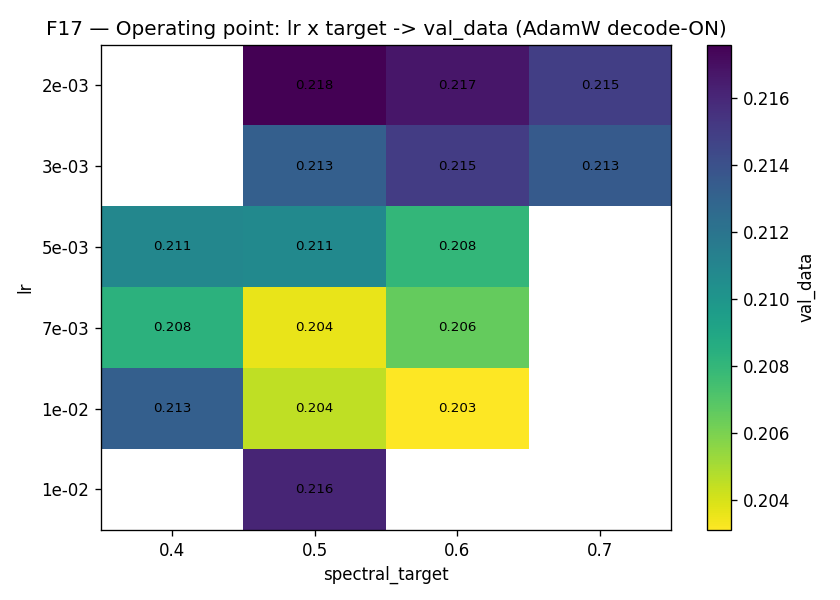
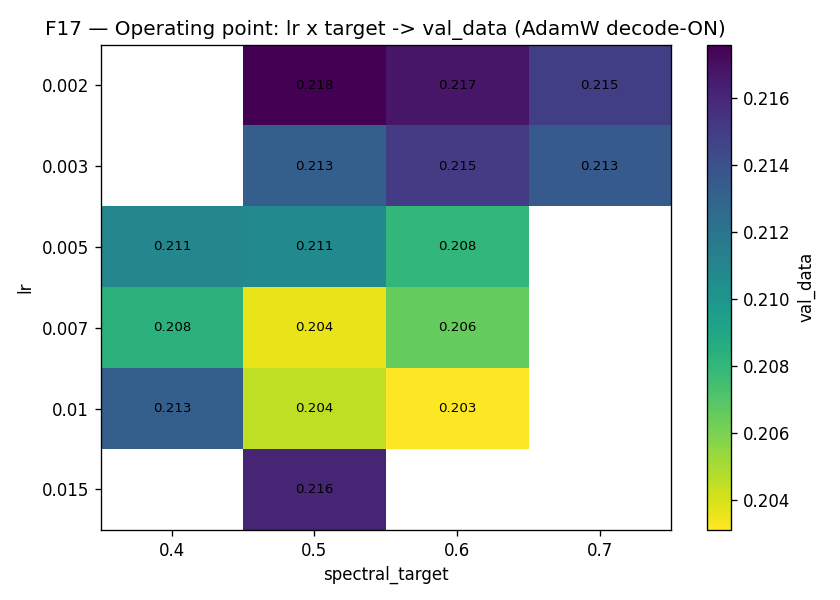
feat(combined): +5 extra (F29-F36 T-track/ALIF/grad-eq/instability/settling) + review fix (F11 legenda, F17 label, F32 esclude aborted+caveat)

diff --git a/scripts/_build_eventprop_study_combined.py b/scripts/_build_eventprop_study_combined.py
@@ -474,8 +474,7 @@ def fig_speed(arms, epoch_rows):
 def fig_gradnorm(arms, epoch_rows):
     import matplotlib.pyplot as plt
     df = _epoch_df(epoch_rows)
-    best = _best_per_family(arms)
-    # aggiungi esplicitamente il champion + un arm aborted instabile, se presenti
+    best = _best_per_family(arms, exclude_champion=True)  # il champion lo aggiungo a parte (no duplicato in legenda)
     champ = next((a for a in arms if a['family'] == 'BPTT_champion' and a['sweep'] == 'BigSweep3'), None)
     fig, ax = plt.subplots(figsize=(9, 5))
     for f, a in best.items():
@@ -625,7 +624,7 @@ def fig_lr_target_heat(arms):
     fig, ax = plt.subplots(figsize=(7, 5))
     im = ax.imshow(M, aspect='auto', cmap='viridis_r')
     ax.set_xticks(range(len(tgs))); ax.set_xticklabels(tgs); ax.set_xlabel('spectral_target')
-    ax.set_yticks(range(len(lrs))); ax.set_yticklabels(['%.0e' % x for x in lrs]); ax.set_ylabel('lr')
+    ax.set_yticks(range(len(lrs))); ax.set_yticklabels(['%g' % x for x in lrs]); ax.set_ylabel('lr')
     for i in range(len(lrs)):
         for j in range(len(tgs)):
             if not np.isnan(M[i, j]):
@@ -781,7 +780,8 @@ def fig_intra_std(arms, epoch_rows):
 @_safe
 def fig_hyperparam_importance(arms):
     import numpy as np, matplotlib.pyplot as plt
-    sub = [a for a in arms if a['common_val'] and a['val_data_min'] is not None]
+    # SOLO arm completi: un aborted ha val_data alto per l'abort, non per l'iperparam -> gonfia le corr.
+    sub = [a for a in arms if a['common_val'] and not a['aborted'] and a['val_data_min'] is not None]
     feats = {'lr': [], 'spectral_target': [], 'rank': [], 'decode_on': [], 'spectral_lambda': []}
     y = []
     for a in sub:
@@ -801,7 +801,10 @@ def fig_hyperparam_importance(arms):
     fig, ax = plt.subplots(figsize=(7, 4.2))
     items = sorted(corrs.items(), key=lambda x: -x[1])
     ax.bar([k for k, _ in items], [v for _, v in items], color='slateblue')
-    ax.set_ylabel('|corr| con val_data'); ax.set_title('F32 — Importanza iperparametri (|correlazione| con la fisica)')
+    ax.set_ylabel('|corr| con val_data')
+    ax.set_title('F32 — Importanza iperparametri (|corr| globale, solo arm completi)')
+    ax.text(0.98, 0.95, 'caveat: corr globale confonde le famiglie;\nlambda/rank variano poco globalmente',
+            transform=ax.transAxes, ha='right', va='top', fontsize=6, color='gray')
     plt.tight_layout(); plt.savefig(os.path.join(OUTDIR, 'combined_F32_hyperparam.png'), dpi=120); plt.close()
     return 'F32_hyperparam'
 
@@ -872,6 +875,133 @@ def fig_pe_dissection(arms):
     return 'F37_pe_dissection'
 
 
+# ---------------- EXTRA addizionali ----------------
+@_safe
+def fig_t_tracking(arms, epoch_rows):
+    import numpy as np, matplotlib.pyplot as plt
+    df = _epoch_df(epoch_rows)
+    fams = [f for f in FAM_COLORS if any(a['family'] == f and a['common_val'] for a in arms)]
+    vals = []
+    for f in fams:
+        keys = [a['key'] for a in arms if a['family'] == f and a['common_val']]
+        v = []
+        for k in keys:
+            d = df[df.key == k]
+            if 'val_T_tracking_corr' in d and d['val_T_tracking_corr'].notna().any():
+                v.append(d['val_T_tracking_corr'].dropna().iloc[-1])
+        vals.append(np.mean(v) if v else np.nan)
+    fig, ax = plt.subplots(figsize=(7, 4.2))
+    ax.bar(fams, vals, color=[FAM_COLORS[f] for f in fams])
+    ax.set_ylabel('val_T_tracking_corr (finale, media)')
+    ax.set_title('F29 — Tracking del parametro dinamico T (corr; alto=meglio)')
+    ax.tick_params(axis='x', rotation=35, labelsize=7); ax.grid(alpha=0.3, axis='y')
+    plt.tight_layout(); plt.savefig(os.path.join(OUTDIR, 'combined_F29_t_tracking.png'), dpi=120); plt.close()
+    return 'F29_t_tracking'
+
+
+@_safe
+def fig_alif_threshold(arms, epoch_rows):
+    import matplotlib.pyplot as plt
+    df = _epoch_df(epoch_rows)
+    best = _best_per_family(arms, exclude_champion=True)
+    fig, ax = plt.subplots(1, 2, figsize=(13, 4.6))
+    for f, a in best.items():
+        d = df[df.key == a['key']].sort_values('epoch')
+        if 'mean_vth_at_spike' in d and d['mean_vth_at_spike'].notna().any():
+            ax[0].plot(d['epoch'], d['mean_vth_at_spike'], color=FAM_COLORS.get(f, '#333'), label=f, lw=1.4)
+        if 'mean_spike_margin' in d and d['mean_spike_margin'].notna().any():
+            ax[1].plot(d['epoch'], d['mean_spike_margin'], color=FAM_COLORS.get(f, '#333'), lw=1.4)
+    ax[0].set_xlabel('epoca'); ax[0].set_ylabel('mean_vth_at_spike'); ax[0].set_title('F30a — soglia ALIF allo spike')
+    ax[0].legend(fontsize=7); ax[0].grid(alpha=0.3)
+    ax[1].set_xlabel('epoca'); ax[1].set_ylabel('mean_spike_margin'); ax[1].set_title('F30b — margine di spike')
+    ax[1].grid(alpha=0.3)
+    plt.tight_layout(); plt.savefig(os.path.join(OUTDIR, 'combined_F30_alif_threshold.png'), dpi=120); plt.close()
+    return 'F30_alif_threshold'
+
+
+@_safe
+def fig_grad_equalization(arms):
+    import numpy as np, matplotlib.pyplot as plt
+    import pandas as pd
+    pairs = [('AdamW_decodeON', 'A_lr7e3_t05_r16', 'BigSweep3', 'decode ON'),
+             ('AdamW_decodeOFF', 'A_lr7e3_t05_r16_noDEC', 'BigSweep3', 'decode OFF')]
+    cols = ['gn_out_fc_%s' % c for c in PN]
+    fig, ax = plt.subplots(figsize=(8, 4.6))
+    x = np.arange(len(PN)); w = 0.38
+    for k, (fam, tag, label, lab) in enumerate(pairs):
+        d = _batch_df(label, tag)
+        if d is None or not all(c in d.columns for c in cols):
+            continue
+        means = [d[c].abs().mean() for c in cols]
+        ax.bar(x + (k - 0.5) * w, means, w, label=lab, color='#1f77b4' if k == 0 else '#7f7f7f')
+    ax.set_xticks(x); ax.set_xticklabels(PN); ax.set_ylabel('grad per-canale medio (out_fc)')
+    ax.set_yscale('log')
+    ax.set_title('F31 — Equalizzazione gradiente per-canale: decode ON vs OFF')
+    ax.legend()
+    plt.tight_layout(); plt.savefig(os.path.join(OUTDIR, 'combined_F31_grad_equalization.png'), dpi=120); plt.close()
+    return 'F31_grad_equalization'
+
+
+@_safe
+def fig_instability_timeline(arms):
+    import pandas as pd, matplotlib.pyplot as plt
+    rows = []
+    for a in arms:
+        p = os.path.join(RESULTS, FOLDER_OF[a['sweep']], a['arm'], 'training_batch_log.csv')
+        if not os.path.isfile(p):
+            continue
+        try:
+            d = pd.read_csv(p, usecols=lambda c: c in ('is_nan_loss', 'is_inf_grad'))
+        except Exception:
+            continue
+        n_inf = int(d['is_inf_grad'].sum()) if 'is_inf_grad' in d else 0
+        n_nan = int(d['is_nan_loss'].sum()) if 'is_nan_loss' in d else 0
+        if n_inf + n_nan > 0:
+            rows.append({'key': a['key'], 'inf': n_inf, 'nan': n_nan, 'aborted': a['aborted']})
+    if not rows:
+        # nessun evento: figura informativa "zero instabilita' numerica"
+        fig, ax = plt.subplots(figsize=(7, 2.2))
+        ax.text(0.5, 0.5, 'Nessun arm con eventi is_nan_loss / is_inf_grad\n(stabilita numerica su tutte le campagne)',
+                ha='center', va='center', fontsize=11)
+        ax.axis('off')
+        plt.tight_layout(); plt.savefig(os.path.join(OUTDIR, 'combined_F35_instability.png'), dpi=120); plt.close()
+        return 'F35_instability (0 eventi)'
+    rows = sorted(rows, key=lambda r: -(r['inf'] + r['nan']))
+    import numpy as np
+    fig, ax = plt.subplots(figsize=(max(7, 0.3 * len(rows)), 4.6))
+    x = np.arange(len(rows))
+    ax.bar(x, [r['inf'] for r in rows], label='is_inf_grad', color='crimson')
+    ax.bar(x, [r['nan'] for r in rows], bottom=[r['inf'] for r in rows], label='is_nan_loss', color='purple')
+    ax.set_xticks(x); ax.set_xticklabels([r['key'] for r in rows], rotation=90, fontsize=5)
+    ax.set_ylabel('# eventi (su tutto il training)')
+    ax.set_title('F35 — Eventi di instabilita numerica per-arm')
+    ax.legend()
+    plt.tight_layout(); plt.savefig(os.path.join(OUTDIR, 'combined_F35_instability.png'), dpi=120); plt.close()
+    return 'F35_instability (%d arm)' % len(rows)
+
+
+@_safe
+def fig_settling(arms, epoch_rows):
+    import numpy as np, matplotlib.pyplot as plt
+    df = _epoch_df(epoch_rows)
+    sub = [a for a in arms if a['common_val'] and not a['aborted'] and a['val_data_min'] is not None]
+    fig, ax = plt.subplots(figsize=(8, 5))
+    for fam in FAM_COLORS:
+        fs = [a for a in sub if a['family'] == fam]
+        xs, ys = [], []
+        for a in fs:
+            d = df[df.key == a['key']].sort_values('epoch')['val_data'].dropna().values
+            if len(d) >= 5:
+                xs.append(a['val_data_min']); ys.append(float(np.std(d[-5:])))
+        if xs:
+            ax.scatter(xs, ys, c=FAM_COLORS[fam], s=45, label=fam, alpha=0.8, edgecolors='k', linewidths=0.3)
+    ax.set_xlabel('val_data_min'); ax.set_ylabel('std val_data (ultime 5 epoche)')
+    ax.set_title('F36 — Settling di convergenza (basso = stabile a fine training)')
+    ax.legend(fontsize=7); ax.grid(alpha=0.3)
+    plt.tight_layout(); plt.savefig(os.path.join(OUTDIR, 'combined_F36_settling.png'), dpi=120); plt.close()
+    return 'F36_settling'
+
+
 if __name__ == '__main__':
     arms, epoch_rows = ingest()
     p1, p2 = write_backbone(arms, epoch_rows)
@@ -891,6 +1021,9 @@ if __name__ == '__main__':
         (fig_diagnostics, (arms,)), (fig_intra_std, (arms, epoch_rows)),
         (fig_hyperparam_importance, (arms,)), (fig_compute_pareto, (arms,)),
         (fig_decode_delta, (arms,)), (fig_pe_dissection, (arms,)),
+        (fig_t_tracking, (arms, epoch_rows)), (fig_alif_threshold, (arms, epoch_rows)),
+        (fig_grad_equalization, (arms,)), (fig_instability_timeline, (arms,)),
+        (fig_settling, (arms, epoch_rows)),
     ]
     ok = 0
     for fn, args in jobs:

diff --git a/results/EventProp_Study/combined/INDEX.md b/results/EventProp_Study/combined/INDEX.md
@@ -61,9 +61,14 @@ AdamW_decodeON_seed (multi-seed), Dataset (DS narrow/wide/widebig).
 
 ### Extra (colonne finora inutilizzate)
 | F28 | `combined_F28_intra_std.png` | intra_std per-canale (confidenza identificazione) |
-| F32 | `combined_F32_hyperparam.png` | importanza iperparametri (|corr| con val_data) |
+| F29 | `combined_F29_t_tracking.png` | tracking del parametro dinamico T (corr) per famiglia |
+| F30 | `combined_F30_alif_threshold.png` | dinamica soglia ALIF (vth/margine) vs epoca |
+| F31 | `combined_F31_grad_equalization.png` | equalizzazione gradiente per-canale: decode ON vs OFF |
+| F32 | `combined_F32_hyperparam.png` | importanza iperparametri (\|corr\| con val_data; solo completi) |
 | F33 | `combined_F33_compute_pareto.png` | Pareto compute-efficiency (accuratezza/minuto) |
 | F34 | `combined_F34_decode_delta.png` | effetto decode on↔off per-canale |
+| F35 | `combined_F35_instability.png` | eventi is_nan/is_inf per-arm (solo famiglia BPTT_champion) |
+| F36 | `combined_F36_settling.png` | settling di convergenza (std val_data ultime 5 epoche) |
 
 ### Tema 8 — Paradosso NRMSE ProdigyEvent
 | F37 | `combined_F37_pe_dissection.png` | **PE: NRMSE più bassa di tutti MA fisica peggiore**; per-canale PE batte AdamW ovunque |
@@ -74,6 +79,8 @@ Richiedono i pesi `.pt` (gitignorati, solo su Azure). Da rigenerare cross-sweep 
 - **F23** eff_rank / dead_neurons · **F24** closed-loop safety (oracolo vs SNN) · **F25** per-regime ·
   **F26** Path-B refit · **F27** rank→val_data→eff_rank · **F38-F40** PE closed-loop/per-regime/consistenza.
 
-## Extra non ancora costruiti (cheap, su richiesta)
-F29 T-tracking corr · F30 dinamica soglia ALIF (vth/margin) · F31 equalizzazione gradiente per-canale ·
-F35 timeline eventi is_nan/is_inf · F36 settling di convergenza.
+## Note di lettura
+- **F32** è una correlazione GLOBALE (confonde le famiglie); `lr`/`decode_on` variano molto ed è
+  significativa, `lambda`/`rank` variano poco a livello globale → leggerle con cautela.
+- **F35**: gli unici arm con instabilità numerica (`is_inf_grad`) sono della famiglia BPTT_champion;
+  nessun EventProp. Gli eventi calano da ~180-260 (Study/BS1) a ~1 (BS2/BS3).